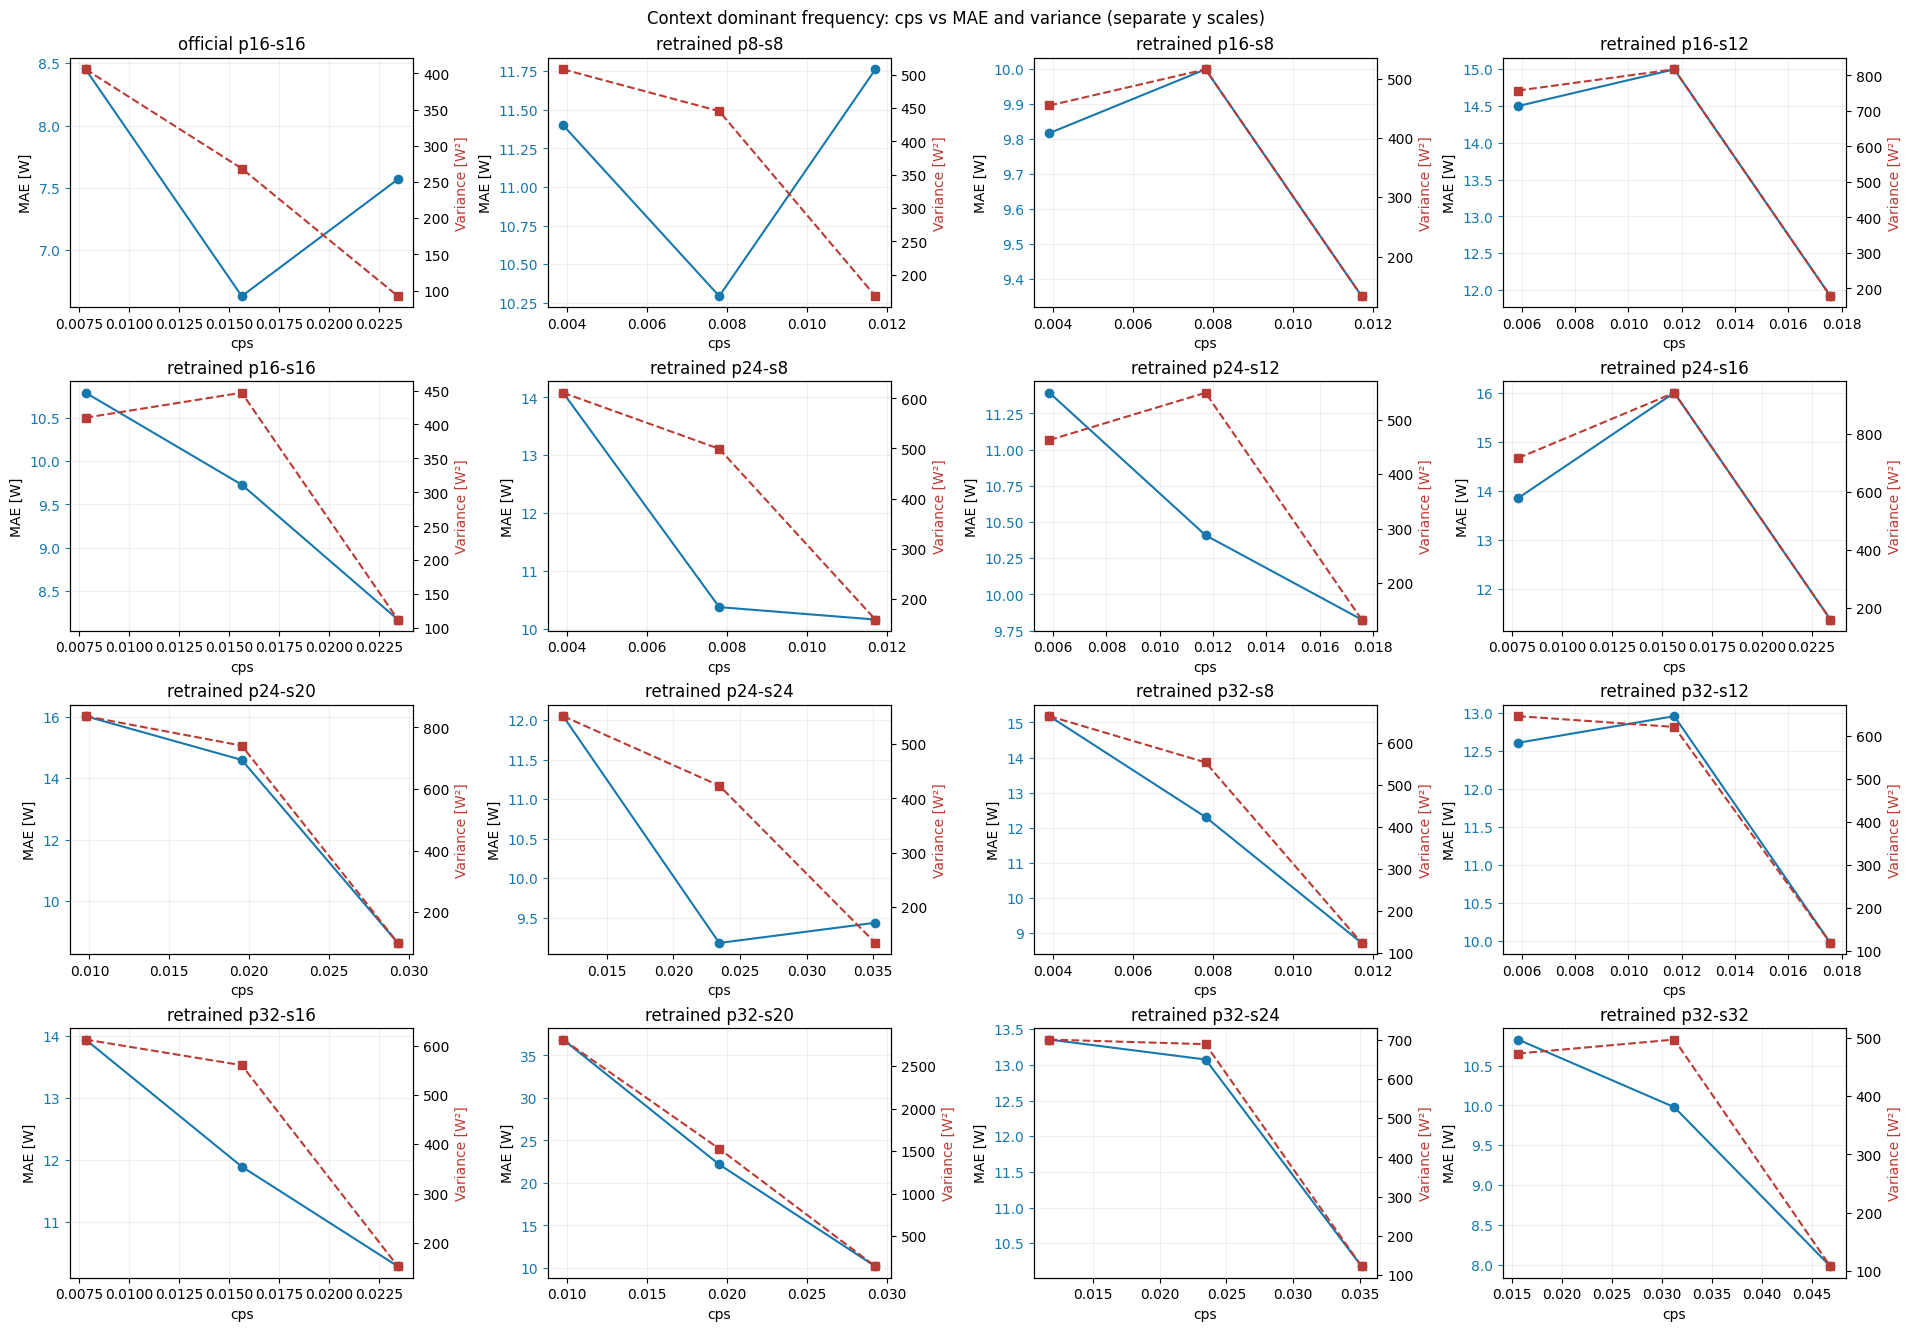
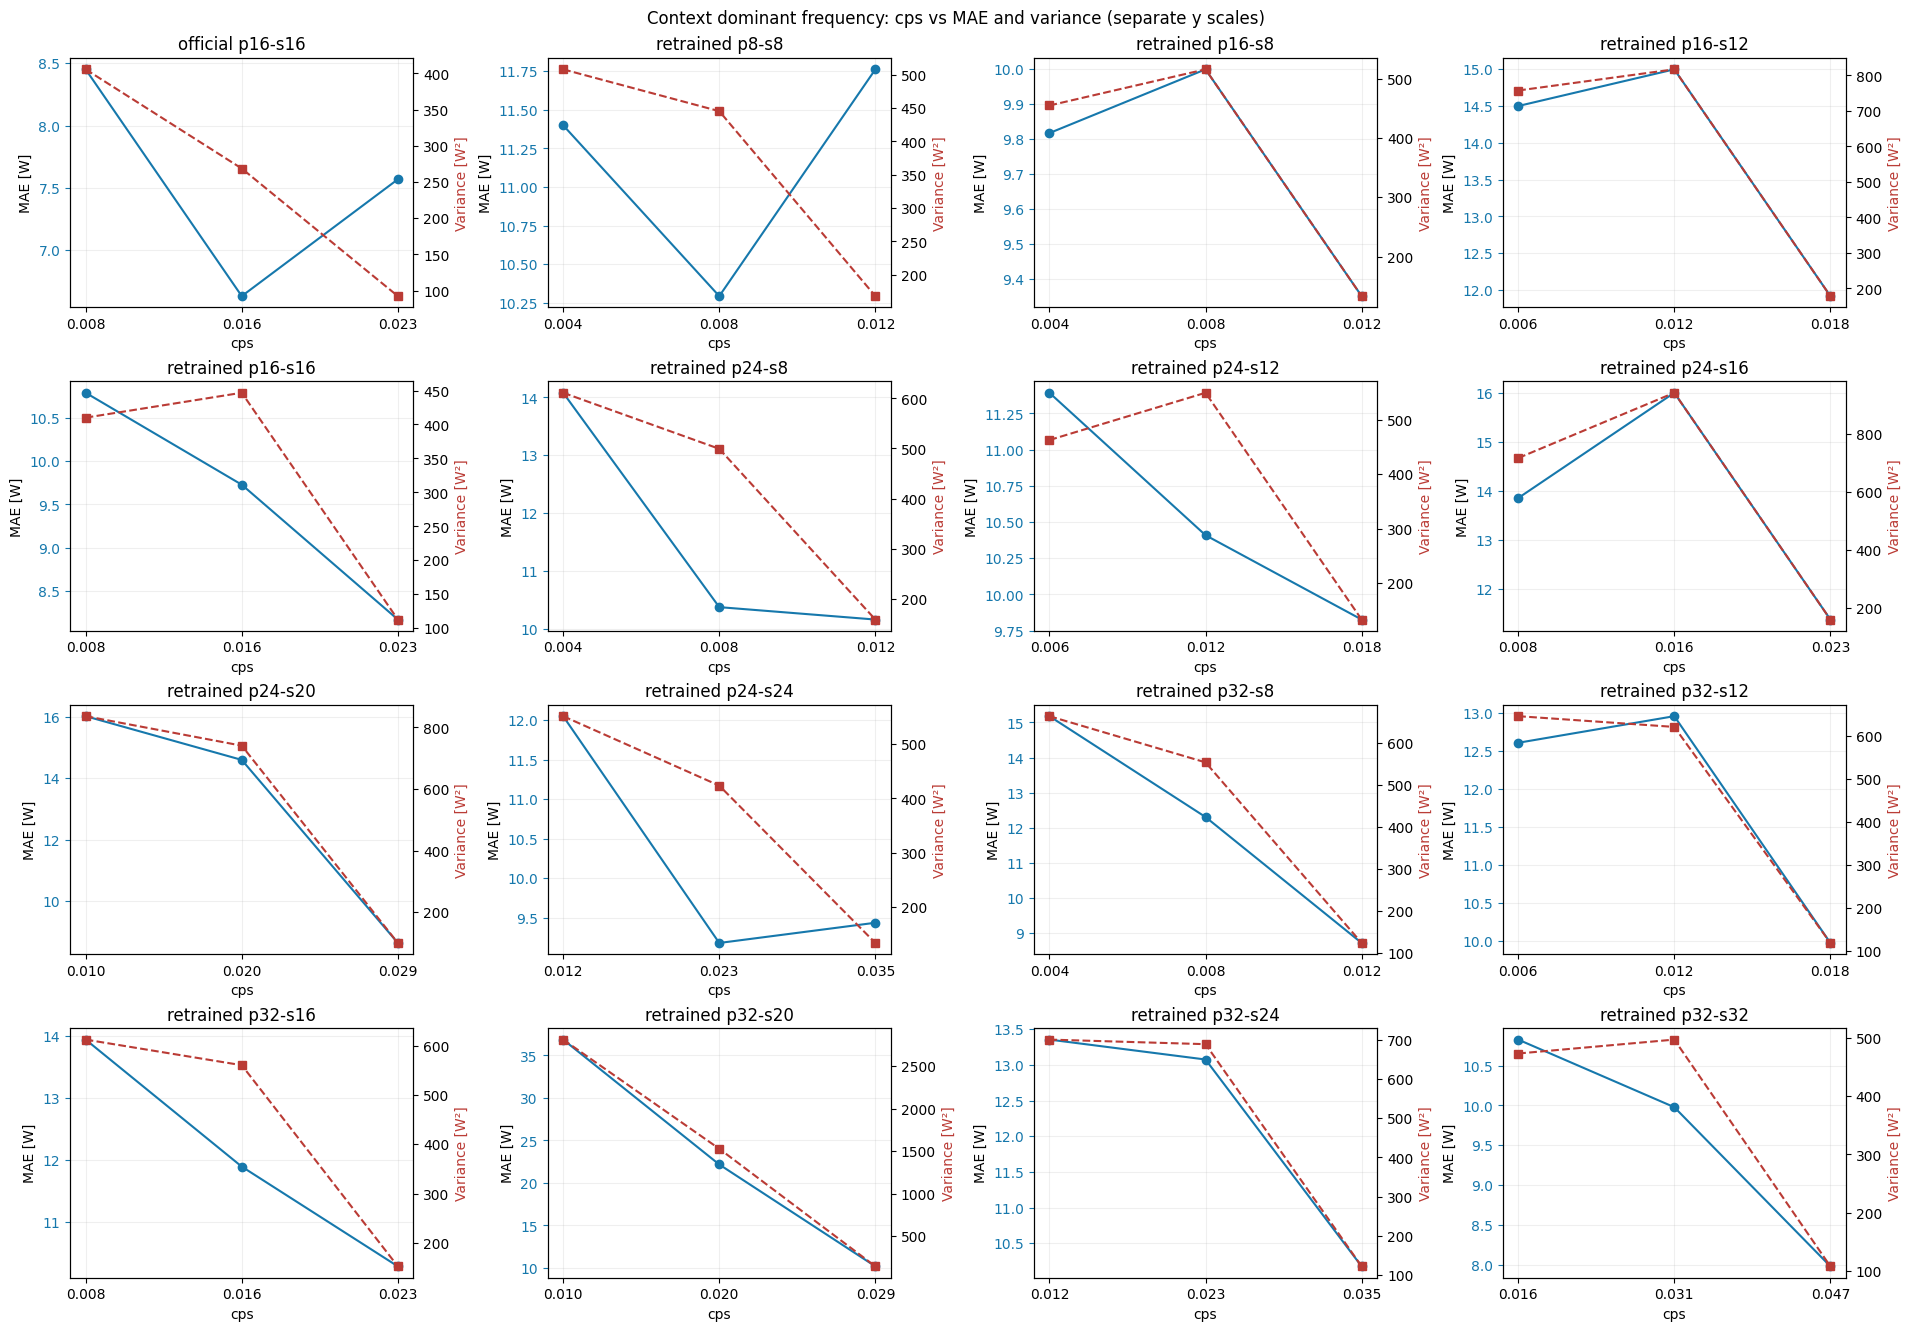
fix(H_solar_appendix): x-axis labeling spaced equal to the dots

diff --git a/notebooks/support_scripts/solar_benchmark_lib.py b/notebooks/support_scripts/solar_benchmark_lib.py
@@ -299,6 +299,9 @@ def plot_results(frames, out):
             ax.plot(p[coordinate], p.MAE, "o-", color="#1678ac", label="MAE")
             other.plot(p[coordinate], p.variance, "s--", color="#ba3b35", label="Variance")
             ax.set(title=model, xlabel=coordinate, ylabel=f"MAE [{table.MAE_unit.iloc[0]}]")
+            if coordinate == "cps":
+                ax.set_xticks(p[coordinate].unique())
+                ax.xaxis.set_major_formatter("{x:.3f}")
             other.set_ylabel(f"Variance [{table.variance_unit.iloc[0]}]", color="#ba3b35")
             ax.tick_params(axis="y", colors="#1678ac")
             ax.grid(alpha=.2)
